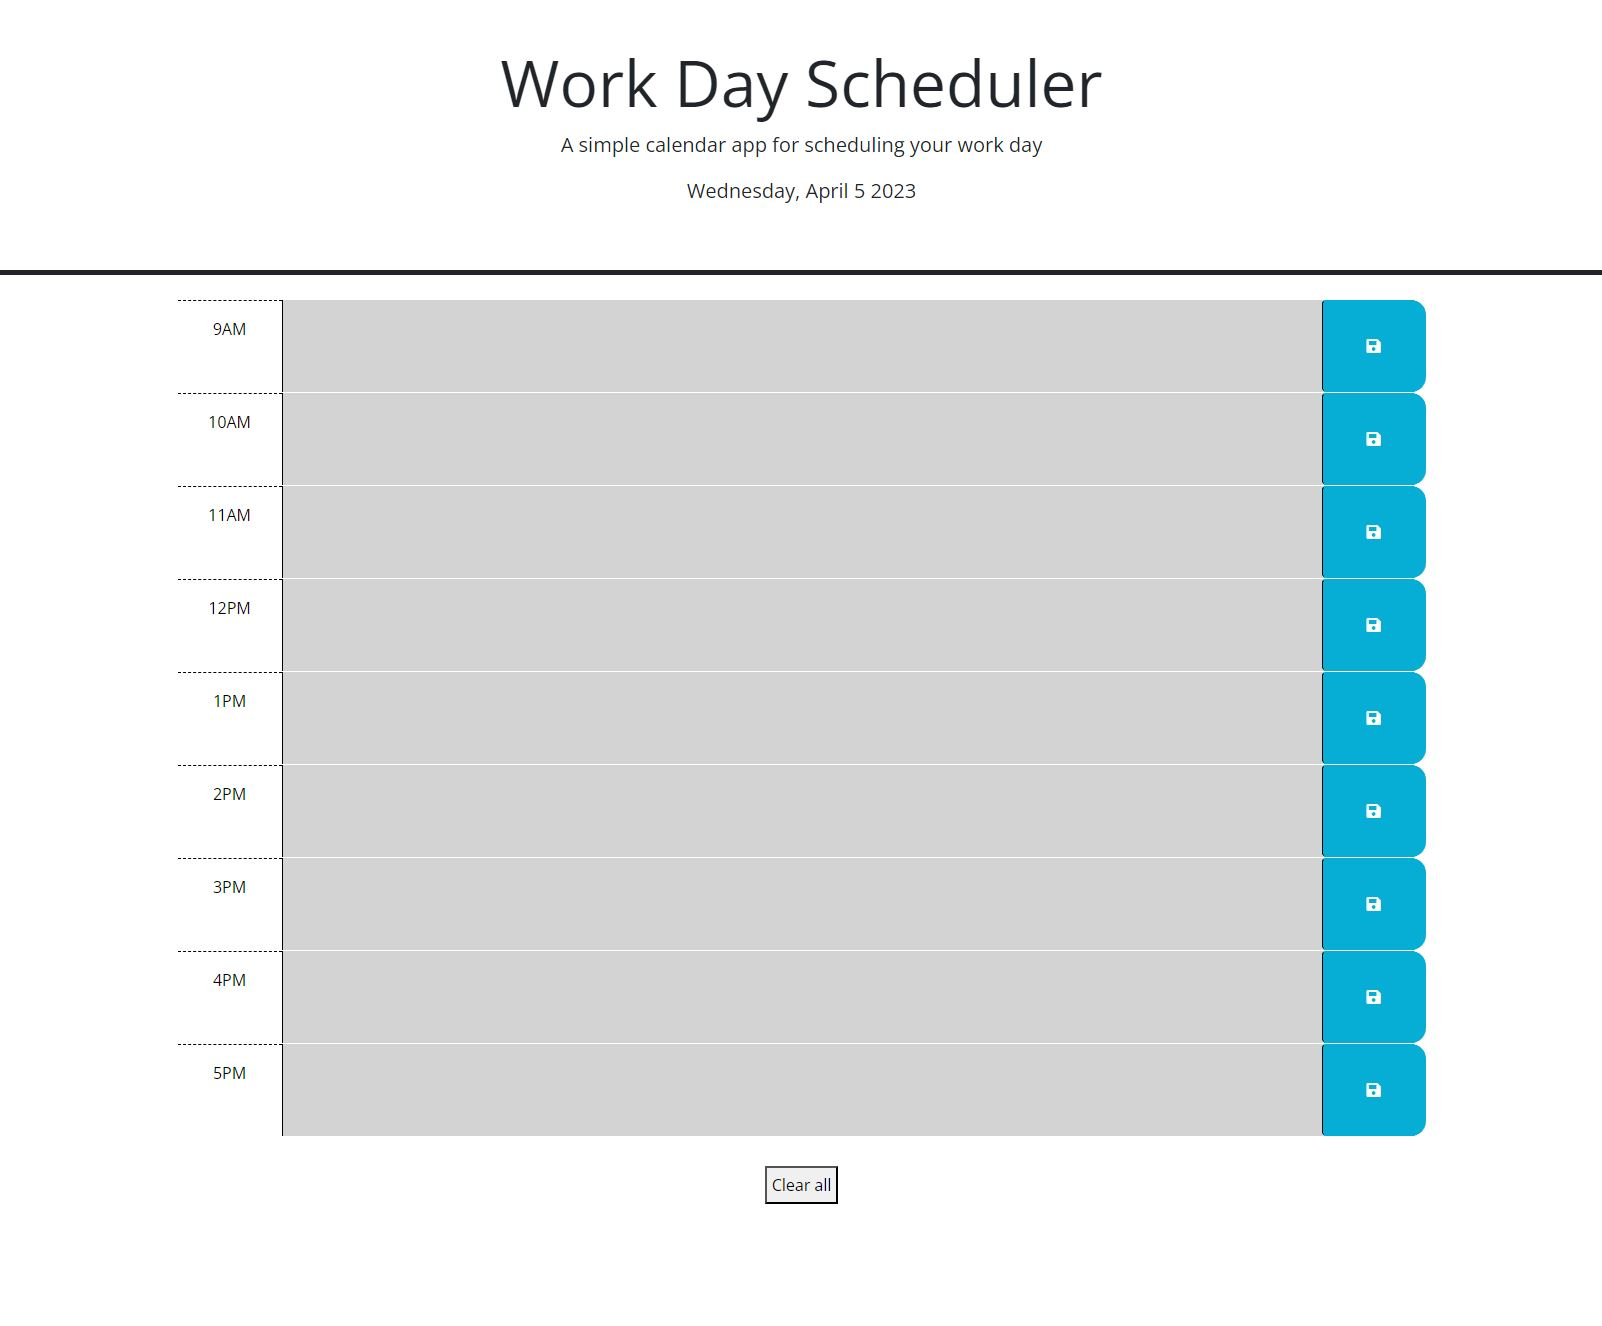
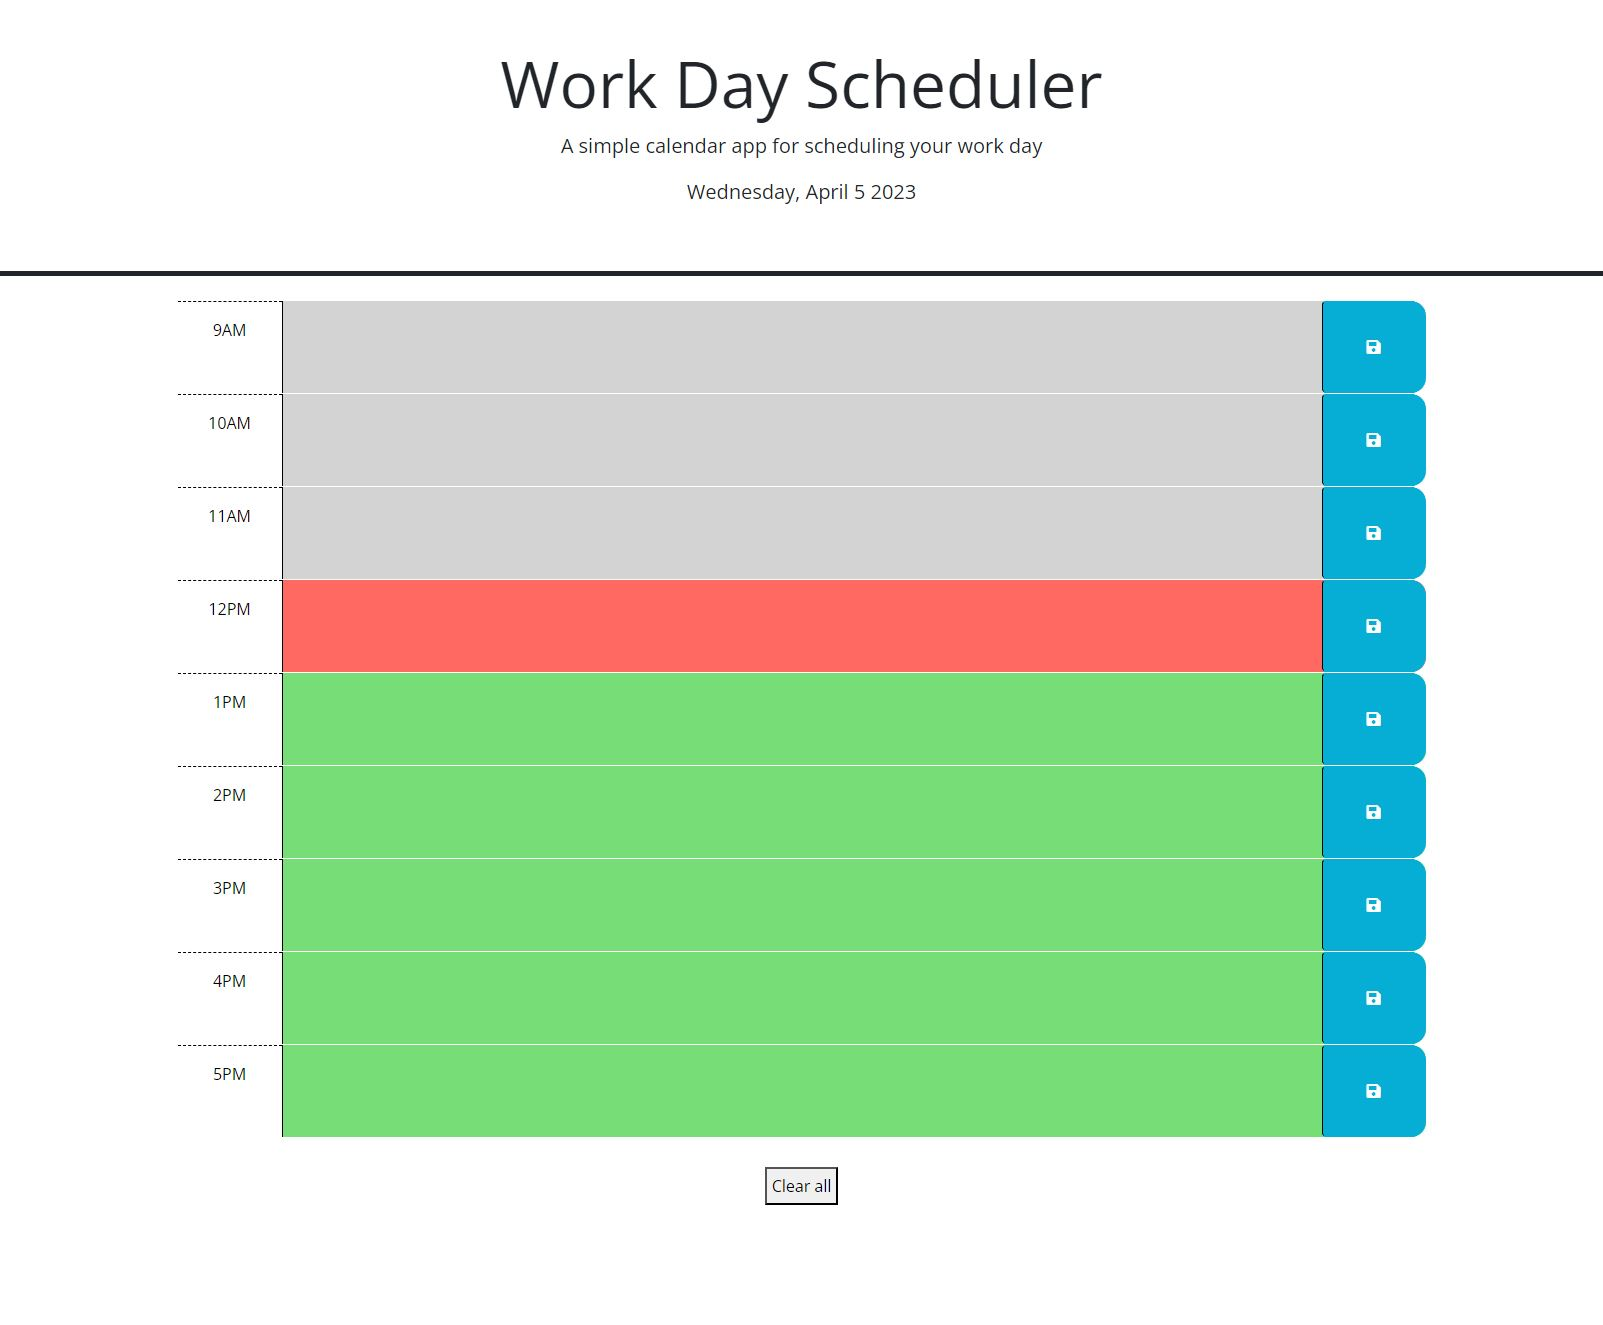
finished readme

diff --git a/index.html b/index.html
@@ -29,17 +29,8 @@
       <p id="currentDay" class="lead"></p>
     </header>
     <div class="container-lg px-5">
-      <!-- Use class for "past", "present", and "future" to apply styles to the
-        time-block divs accordingly. The javascript will need to do this by
-        adding/removing these classes on each div by comparing the hour in the
-        id to the current hour. The html provided below is meant to be an example
-        demonstrating how the css provided can be leveraged to create the
-        desired layout and colors. The html below should be removed or updated
-        in the finished product. Remember to delete this comment once the
-        code is implemented.
-        -->
+    
 
-      <!-- Example of a past time block. The "past" class adds a gray background color. -->
       <div id="hour-9" class="row time-block">
         <div class="col-2 col-md-1 hour text-center py-3">9AM</div>
         <textarea class="col-8 col-md-10 description" rows="3"> </textarea>
@@ -48,7 +39,6 @@
         </button>
       </div>
 
-      <!-- Example of a a present time block. The "present" class adds a red background color. -->
       <div id="hour-10" class="row time-block">
         <div class="col-2 col-md-1 hour text-center py-3">10AM</div>
         <textarea class="col-8 col-md-10 description" rows="3"> </textarea>
@@ -57,7 +47,6 @@
         </button>
       </div>
 
-      <!-- Example of a future time block. The "future" class adds a green background color. -->
       <div id="hour-11" class="row time-block">
         <div class="col-2 col-md-1 hour text-center py-3">11AM</div>
         <textarea class="col-8 col-md-10 description" rows="3"> </textarea>

diff --git a/README.md b/README.md
@@ -2,11 +2,15 @@
 
 ## Description
 
-This work day scheduler is a functional tool for live hour by hour tracking of tasks to be completed throughout the curent day.
+This work day scheduler is a functional tool for live hour by hour tracking of tasks to be completed throughout the current day. The website color-codes the hour based on the current hour of the day. User input is saved in local storage and is displyed in the hour rows when the page is refreshed. This project was intended to utilize jquery and day.js techniques. Starter HTML and CSS code was provided. 
+
+This application is deployed on GitHub pages:<br>
+https://danielschris96.github.io/work-day-scheduler/
 
 ## Usage
+The hours of the day are color-coded. Gray blocks represent past hours. The red block represents the current hour. Green blocks represent future hours. The user can input text into any hour block and save the text using the blue button next to the block. When the page is refreshed, the inputed tasks remain in the blocks. The scheduler can be cleared using the 'Clear all' button.<br>
 
-
+![Screenshot of webpage](./images/page-screenshot.JPG)
 
 ## Credits
 
